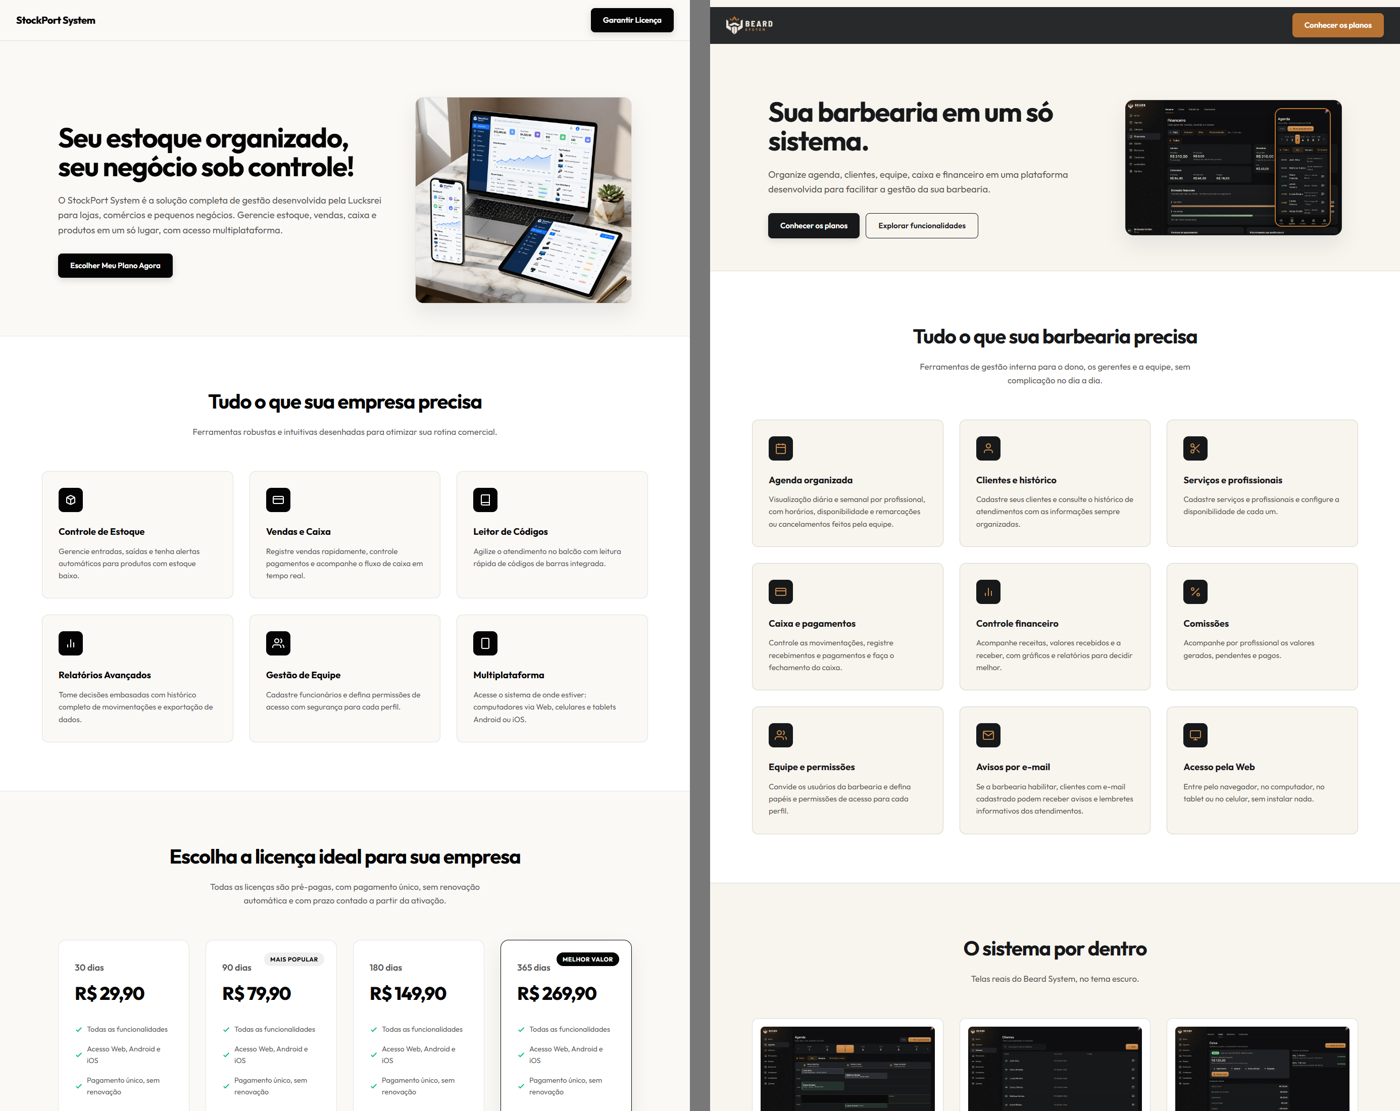
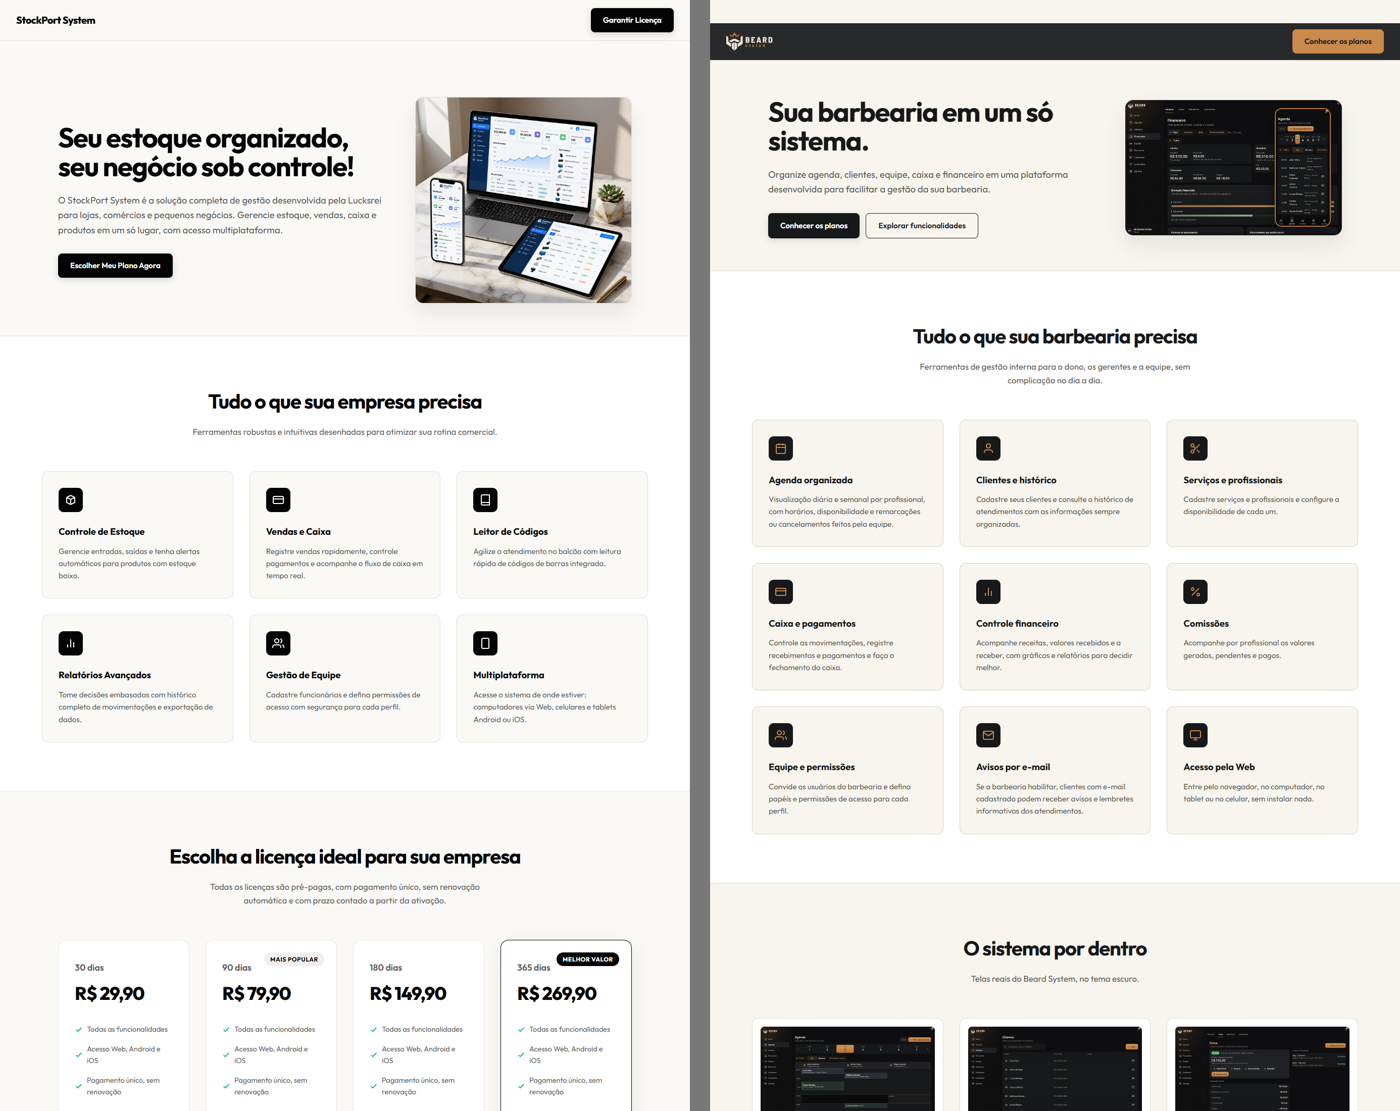
Fix Beard landing gallery loading, plan badge, expiry text and header button contrast

Changed region(s): [[0.4914, 0.0, 1.0, 0.0612]]

diff --git a/beard/index.html b/beard/index.html
@@ -110,12 +110,12 @@
           <p>Telas reais do Beard System, no tema escuro.</p>
         </div>
         <div class="features-grid">
-          <div class="feature-card screen-card"><img src="/assets/img/beard/agenda.webp" width="1000" height="625" loading="lazy" alt="Agenda do Beard System"><h3>Agenda</h3><p>Horários organizados por profissional.</p></div>
-          <div class="feature-card screen-card"><img src="/assets/img/beard/clientes.webp" width="1000" height="625" loading="lazy" alt="Clientes do Beard System"><h3>Clientes</h3><p>Cadastro e histórico de atendimentos.</p></div>
-          <div class="feature-card screen-card"><img src="/assets/img/beard/caixa.webp" width="1000" height="625" loading="lazy" alt="Caixa do Beard System"><h3>Caixa</h3><p>Movimentações, recebimentos e fechamento.</p></div>
-          <div class="feature-card screen-card"><img src="/assets/img/beard/financeiro.webp" width="1000" height="625" loading="lazy" alt="Financeiro do Beard System"><h3>Financeiro</h3><p>Receitas, gráficos e relatórios.</p></div>
-          <div class="feature-card screen-card"><img src="/assets/img/beard/comissoes.webp" width="1000" height="625" loading="lazy" alt="Comissões do Beard System"><h3>Comissões</h3><p>Gerado, pendente e pago por profissional.</p></div>
-          <div class="feature-card screen-card"><img src="/assets/img/beard/equipe.webp" width="1000" height="625" loading="lazy" alt="Equipe do Beard System"><h3>Equipe</h3><p>Usuários, convites e permissões.</p></div>
+          <div class="feature-card screen-card"><img src="/assets/img/beard/agenda.webp" width="1000" height="625" decoding="async" alt="Agenda do Beard System"><h3>Agenda</h3><p>Horários organizados por profissional.</p></div>
+          <div class="feature-card screen-card"><img src="/assets/img/beard/clientes.webp" width="1000" height="625" decoding="async" alt="Clientes do Beard System"><h3>Clientes</h3><p>Cadastro e histórico de atendimentos.</p></div>
+          <div class="feature-card screen-card"><img src="/assets/img/beard/caixa.webp" width="1000" height="625" decoding="async" alt="Caixa do Beard System"><h3>Caixa</h3><p>Movimentações, recebimentos e fechamento.</p></div>
+          <div class="feature-card screen-card"><img src="/assets/img/beard/financeiro.webp" width="1000" height="625" decoding="async" alt="Financeiro do Beard System"><h3>Financeiro</h3><p>Receitas, gráficos e relatórios.</p></div>
+          <div class="feature-card screen-card"><img src="/assets/img/beard/comissoes.webp" width="1000" height="625" decoding="async" alt="Comissões do Beard System"><h3>Comissões</h3><p>Gerado, pendente e pago por profissional.</p></div>
+          <div class="feature-card screen-card"><img src="/assets/img/beard/equipe.webp" width="1000" height="625" decoding="async" alt="Equipe do Beard System"><h3>Equipe</h3><p>Usuários, convites e permissões.</p></div>
         </div>
       </div>
     </section>
@@ -137,7 +137,7 @@
           <a href="https://pay.hotmart.com/M108332227C?off=v3744m8m" class="btn btn-primary" data-plan="30" rel="noopener">Comprar 30 dias</a>
         </div>
         <div class="pricing-card">
-          <span class="badge">Mais popular</span>
+          <span class="badge">Boa escolha</span>
           <span class="pricing-duration">90 dias</span>
           <div class="pricing-price">R$ 79,90</div>
           <ul class="pricing-features">
@@ -210,7 +210,7 @@
       <details><summary>Os funcionários podem acessar?</summary><p>Sim. O proprietário convida os usuários da barbearia e define papéis e permissões de acesso para cada um.</p></details>
       <details><summary>Os clientes precisam criar conta?</summary><p>Não. O Beard é um sistema de gestão interna: quem usa são o proprietário, administradores, gerentes e a equipe autorizada. O cliente conversa com a barbearia, e o profissional registra o atendimento no sistema. Se a barbearia habilitar os avisos por e-mail e o cliente tiver e-mail cadastrado, ele pode receber avisos informativos.</p></details>
       <details><summary>Preciso instalar o aplicativo?</summary><p>Não. O acesso é pela Web, direto no navegador do computador, do tablet ou do celular.</p></details>
-      <details><summary>O que acontece quando a licença vence?</summary><p>O acesso ao sistema é bloqueado. Os dados da barbearia não são apagados por causa do vencimento, e o acesso volta, com os dados que já existiam, quando a licença é renovada. A renovação é manual: compre um novo período e avise o suporte com o número do pedido e o e-mail da conta.</p></details>
+      <details><summary>O que acontece quando a licença vence?</summary><p>Depois do vencimento há um período de tolerância, de 7 dias por padrão, em que você só consulta e exporta os dados, sem fazer alterações. Terminado esse prazo, o acesso ao sistema é bloqueado. Os dados da barbearia não são apagados por causa do vencimento e, quando a licença é renovada, o acesso volta com os dados que já existiam. A renovação é manual: compre um novo período e avise o suporte com o número do pedido e o e-mail da conta.</p></details>
       <details><summary>Como funciona o reembolso?</summary><p>O reembolso segue as regras e os termos da Hotmart, plataforma de pagamento, e o prazo para solicitação é de 7 dias.</p></details>
       <details><summary>Como falar com o suporte?</summary><p>Pela <a href="https://lucksrei.com/support/">página de suporte</a> ou pelo e-mail <a href="mailto:marketing@lucksrei.com">marketing@lucksrei.com</a>.</p></details>
     </section>

diff --git a/assets/css/product-landing.css b/assets/css/product-landing.css
@@ -24,8 +24,8 @@ header{position:fixed;top:0;left:0;width:100%;background:rgba(23,24,26,.92);back
 .btn-primary{background:var(--secondary);color:#fff;box-shadow:0 4px 14px rgba(23,24,26,.15)}
 .btn-primary:hover{transform:translateY(-2px);box-shadow:0 6px 20px rgba(23,24,26,.25)}
 .btn-primary:active{transform:scale(.98)}
-header .btn-primary{background:var(--accent)}
-header .btn-primary:hover{background:#A2642B}
+header .btn-primary{background:var(--primary);color:var(--secondary)}
+header .btn-primary:hover{background:#D79A5C}
 .btn-ghost{background:transparent;color:var(--secondary);border:1px solid var(--secondary)}
 .btn-ghost:hover{transform:translateY(-2px);background:var(--secondary);color:#fff}
 main{padding-top:6rem}

diff --git a/tests/beard-landing.test.js b/tests/beard-landing.test.js
@@ -24,7 +24,7 @@ Object.keys(plans).forEach(function (d) {
   assert(card.indexOf("Comprar " + d + " dias") > -1, "botão " + d);
 });
 assert.strictEqual((html.match(/pay\.hotmart\.com/g) || []).length, 8, "4 links + 4 ofertas no JSON-LD");
-["autoagend", "portal do cliente", "payhip", "whop", "mercado livre", "whatsapp autom"].forEach(function (t) {
+["mais popular", "autoagend", "portal do cliente", "payhip", "whop", "mercado livre", "whatsapp autom"].forEach(function (t) {
   assert(html.toLowerCase().indexOf(t) === -1, "termo proibido: " + t);
 });
 ["hero-financeiro", "hero-agenda", "logo", "og"].forEach(function (n) {
